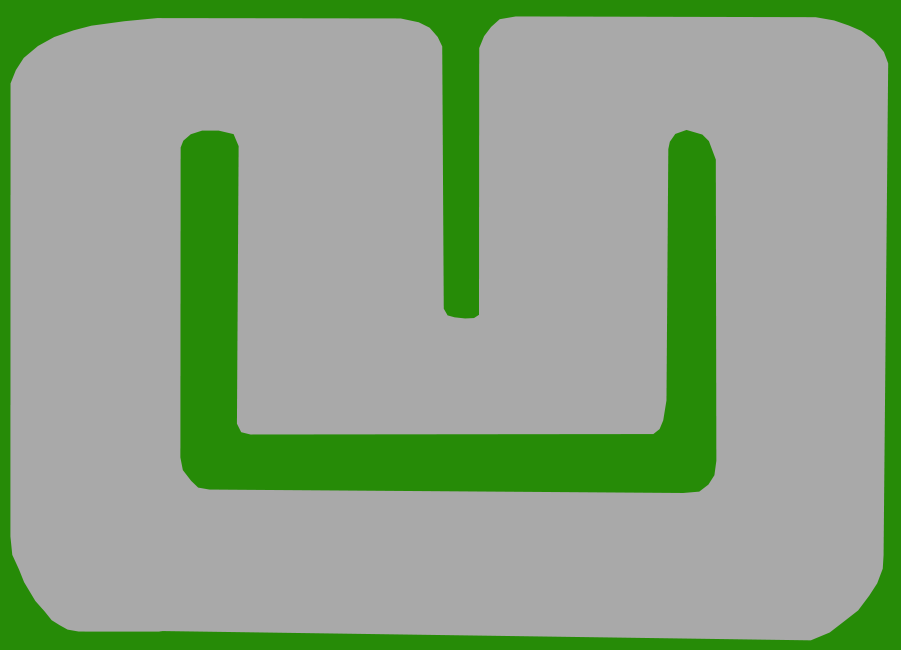
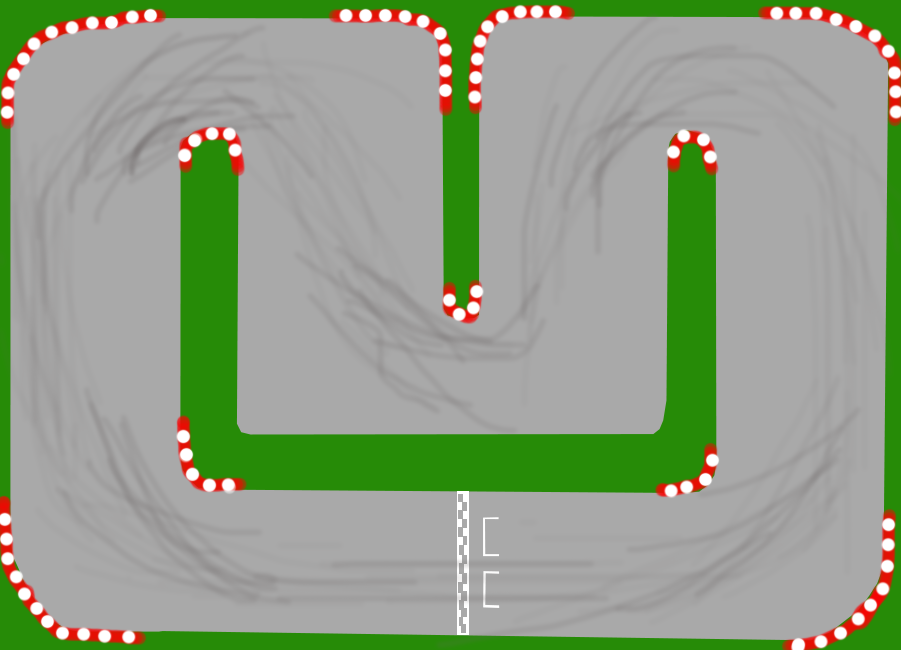
track designed

diff --git a/code/js/game.js b/code/js/game.js
@@ -1,8 +1,8 @@
 var fps = 50; //renders the selected frames per second of main interval ID
 var fps2 = 30; //renders the selected frames per second of main interval ID
 
-var car1 = new Car("car-player1", 50 / fps, 500);
-var car2 = new Car("car-player2", 50 / fps, 550);
+var car1 = new Car("car-player1", 50 / fps, 520);
+var car2 = new Car("car-player2", 50 / fps, 570);
 // var finishLine = new FinishLine();
 
 var intervalId = setInterval(function() {

diff --git a/code/js/car.js b/code/js/car.js
@@ -4,7 +4,7 @@ function Car(name, v, PlaceCarYpx) {
   this.name = name;
   this.posLeft = 0;
   this.posTop = 0;
-  this.offX = 550;
+  this.offX = 490;
   this.offY = PlaceCarYpx;
   this.speed = v;
   this.angle = 180;

diff --git a/code/css/styles.css b/code/css/styles.css
@@ -76,8 +76,7 @@ font-family: "Press Start 2P"
   position: absolute;
   height: 180px;
   width: 5px;
-  background-color: white;
-  left: 390px;
+  left: 450px;
   top: 470px;
 }
 
